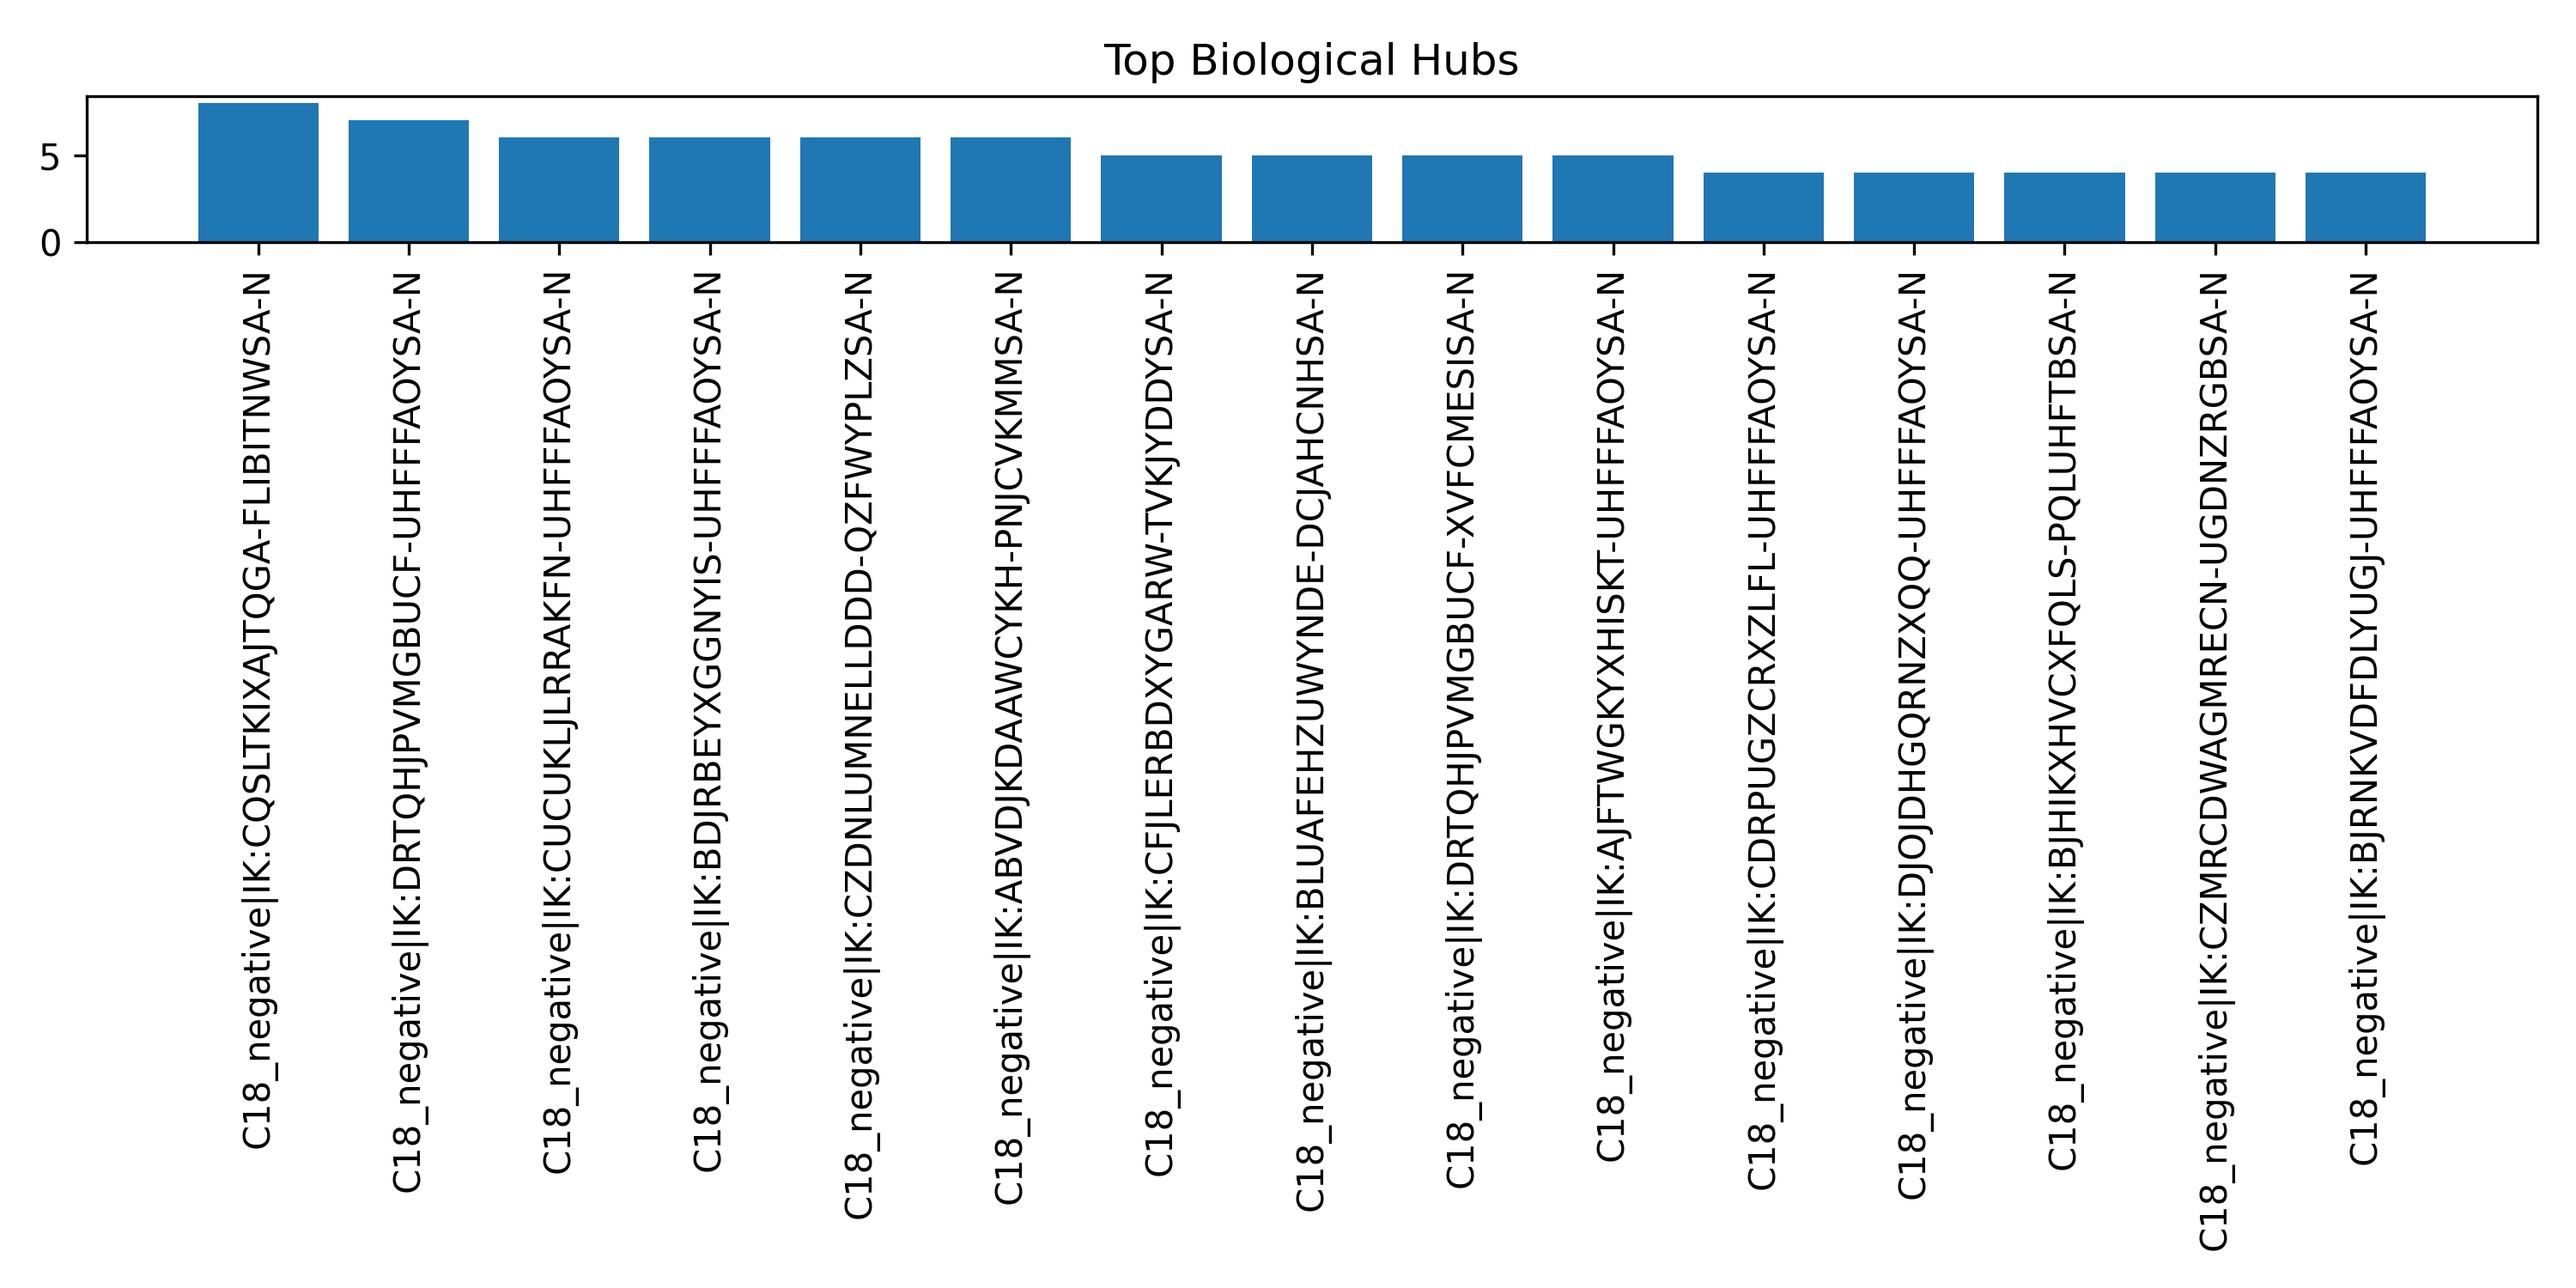
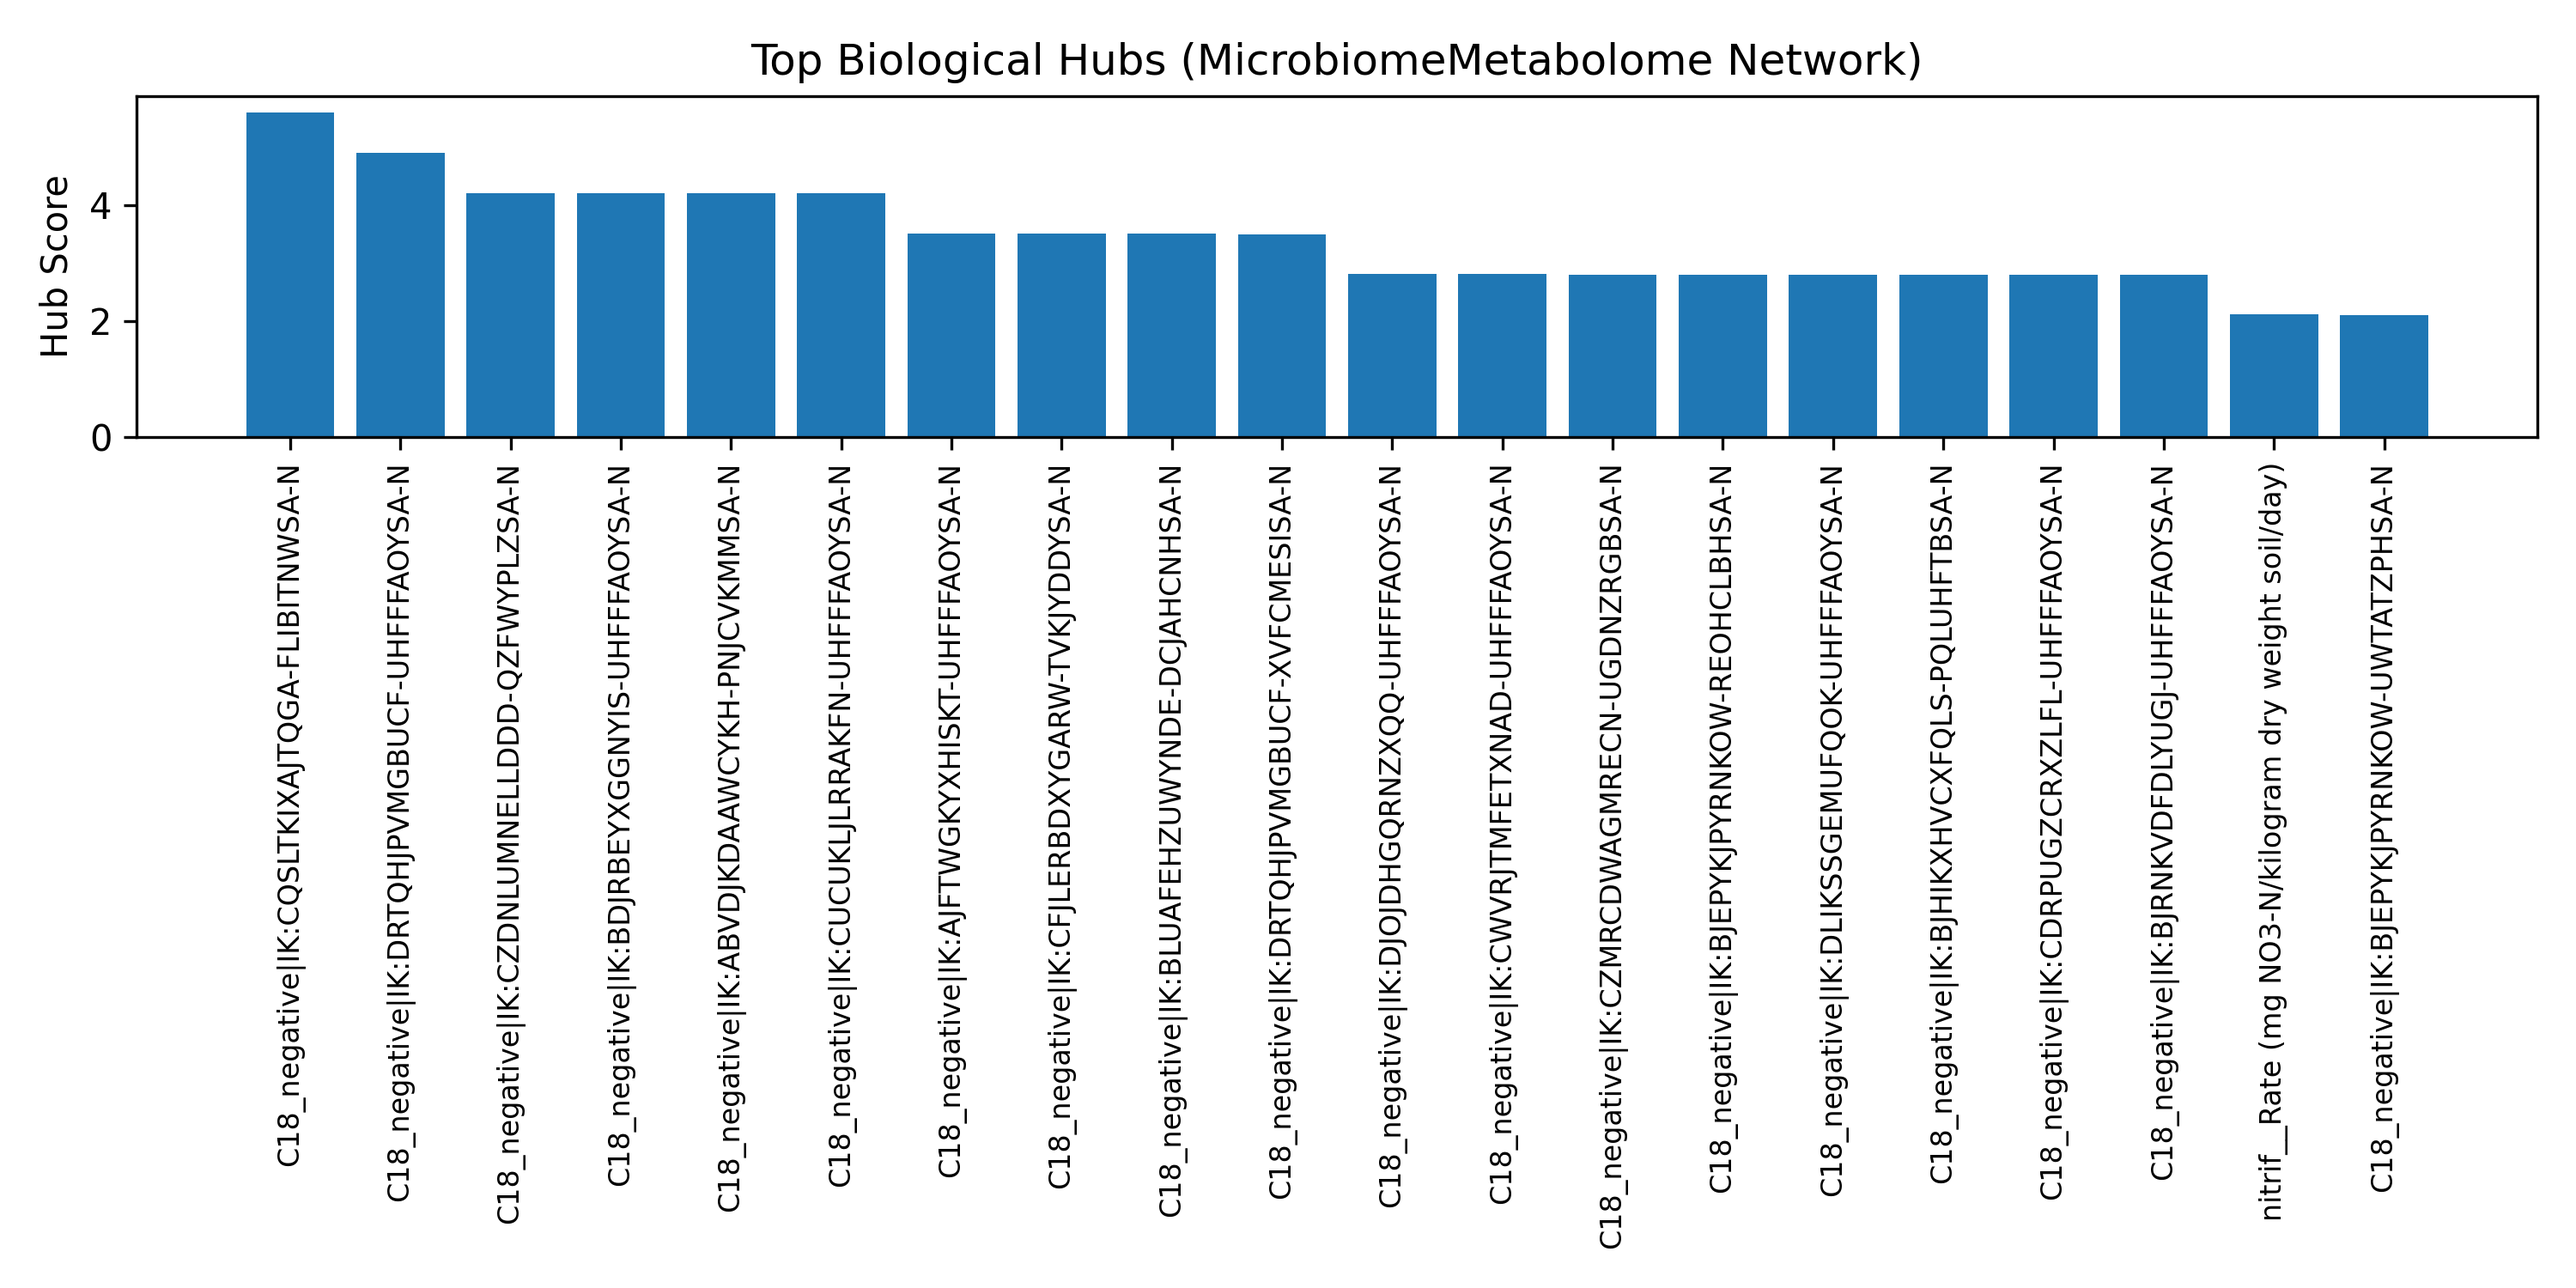
network aeliorer

Changed region(s): [[0.0, 0.0613, 0.992, 0.9507], [0.279, 0.0307, 0.744, 0.0613]]

diff --git a/10_analysis/scripts/40_clean_network_modules_v2.py b/10_analysis/scripts/40_clean_network_modules_v2.py
@@ -1,0 +1,182 @@
+#!/usr/bin/env python3
+
+import pandas as pd
+import numpy as np
+import networkx as nx
+import matplotlib.pyplot as plt
+from pathlib import Path
+
+# Louvain (robust import)
+try:
+    from community import community_louvain
+except:
+    raise ImportError("Install with: pip install python-louvain")
+
+
+# =========================================================
+# 1. LOAD DATA
+# =========================================================
+def load_links(path):
+    df = pd.read_csv(path)
+
+    # sécurité
+    required = {"feature", "metabolite", "importance"}
+    if not required.issubset(df.columns):
+        raise ValueError(f"Missing columns: {required - set(df.columns)}")
+
+    return df
+
+
+# =========================================================
+# 2. FILTER NETWORK (CRITICAL STEP)
+# =========================================================
+def filter_edges(df, quantile=0.80):
+    threshold = df["importance"].quantile(quantile)
+    df_f = df[df["importance"] >= threshold].copy()
+
+    print(f"[INFO] Edges before: {len(df)}, after filtering: {len(df_f)}")
+    print(f"[INFO] Threshold used: {threshold:.4f}")
+
+    return df_f
+
+
+# =========================================================
+# 3. BUILD GRAPH
+# =========================================================
+def build_graph(df):
+    G = nx.Graph()
+
+    for _, row in df.iterrows():
+        f = row["feature"]
+        m = row["metabolite"]
+        w = float(row["importance"])
+
+        if G.has_edge(f, m):
+            G[f][m]["weight"] += w
+        else:
+            G.add_edge(f, m, weight=w)
+
+    return G
+
+
+# =========================================================
+# 4. COMMUNITY DETECTION (BIO MODULES)
+# =========================================================
+def detect_modules(G):
+    partition = community_louvain.best_partition(G, weight="weight")
+    return partition
+
+
+# =========================================================
+# 5. HUBS ANALYSIS
+# =========================================================
+def compute_hubs(G):
+    degree = dict(G.degree())
+    betweenness = nx.betweenness_centrality(G, weight="weight")
+
+    df = pd.DataFrame({
+        "node": list(degree.keys()),
+        "degree": list(degree.values()),
+        "betweenness": [betweenness[n] for n in degree.keys()]
+    })
+
+    df["score"] = df["degree"] * 0.7 + df["betweenness"] * 0.3
+    return df.sort_values("score", ascending=False)
+
+
+# =========================================================
+# 6. FIGURE 1  CLEAN NETWORK (MODULES)
+# =========================================================
+def plot_network(G, partition, out_file):
+
+    plt.figure(figsize=(14, 10))
+    pos = nx.spring_layout(G, seed=42, k=0.4)
+
+    nodes = list(G.nodes())
+    colors = [partition[n] for n in nodes]
+
+    nx.draw_networkx_nodes(
+        G, pos,
+        node_color=colors,
+        node_size=40,
+        cmap=plt.cm.Set3,
+        alpha=0.9
+    )
+
+    weights = [G[u][v]["weight"] for u, v in G.edges()]
+    nx.draw_networkx_edges(
+        G, pos,
+        alpha=0.2,
+        width=[w * 2 for w in weights]
+    )
+
+    plt.title("MicrobiomeMetabolome Interaction Network (Biological Modules)")
+    plt.axis("off")
+    plt.tight_layout()
+    plt.savefig(out_file, dpi=300)
+    plt.close()
+
+
+# =========================================================
+# 7. FIGURE 2  HUBS
+# =========================================================
+def plot_hubs(df, out_file):
+
+    top = df.head(20)
+
+    plt.figure(figsize=(10, 5))
+    plt.bar(top["node"], top["score"])
+
+    plt.xticks(rotation=90, fontsize=8)
+    plt.ylabel("Hub Score")
+    plt.title("Top Biological Hubs (MicrobiomeMetabolome Network)")
+    plt.tight_layout()
+
+    plt.savefig(out_file, dpi=300)
+    plt.close()
+
+
+# =========================================================
+# 8. MAIN PIPELINE
+# =========================================================
+def main():
+
+    project_root = Path(".")
+    in_path = project_root / "10_analysis/outputs/phase39_biomarkers/links.csv"
+
+    out_dir = project_root / "10_analysis/outputs/phase40_modules"
+    out_dir.mkdir(parents=True, exist_ok=True)
+
+    print("\n[PHASE 40] Loading data...")
+    df = load_links(in_path)
+
+    print("[PHASE 40] Filtering network...")
+    df_f = filter_edges(df)
+
+    print("[PHASE 40] Building graph...")
+    G = build_graph(df_f)
+
+    print(f"[INFO] Nodes: {G.number_of_nodes()}")
+    print(f"[INFO] Edges: {G.number_of_edges()}")
+
+    print("[PHASE 40] Detecting modules...")
+    partition = detect_modules(G)
+
+    print("[PHASE 40] Computing hubs...")
+    hubs = compute_hubs(G)
+
+    # Save outputs
+    hubs.to_csv(out_dir / "biological_hubs.csv", index=False)
+    nx.write_gexf(G, out_dir / "clean_network.gexf")
+
+    print("[PHASE 40] Generating figures...")
+
+    plot_network(G, partition, out_dir / "network_modules.png")
+    plot_hubs(hubs, out_dir / "top_hubs.png")
+
+    print("\n[SUCCESS] Phase 40 completed!")
+    print("Output:", out_dir)
+
+
+if __name__ == "__main__":
+    main()
